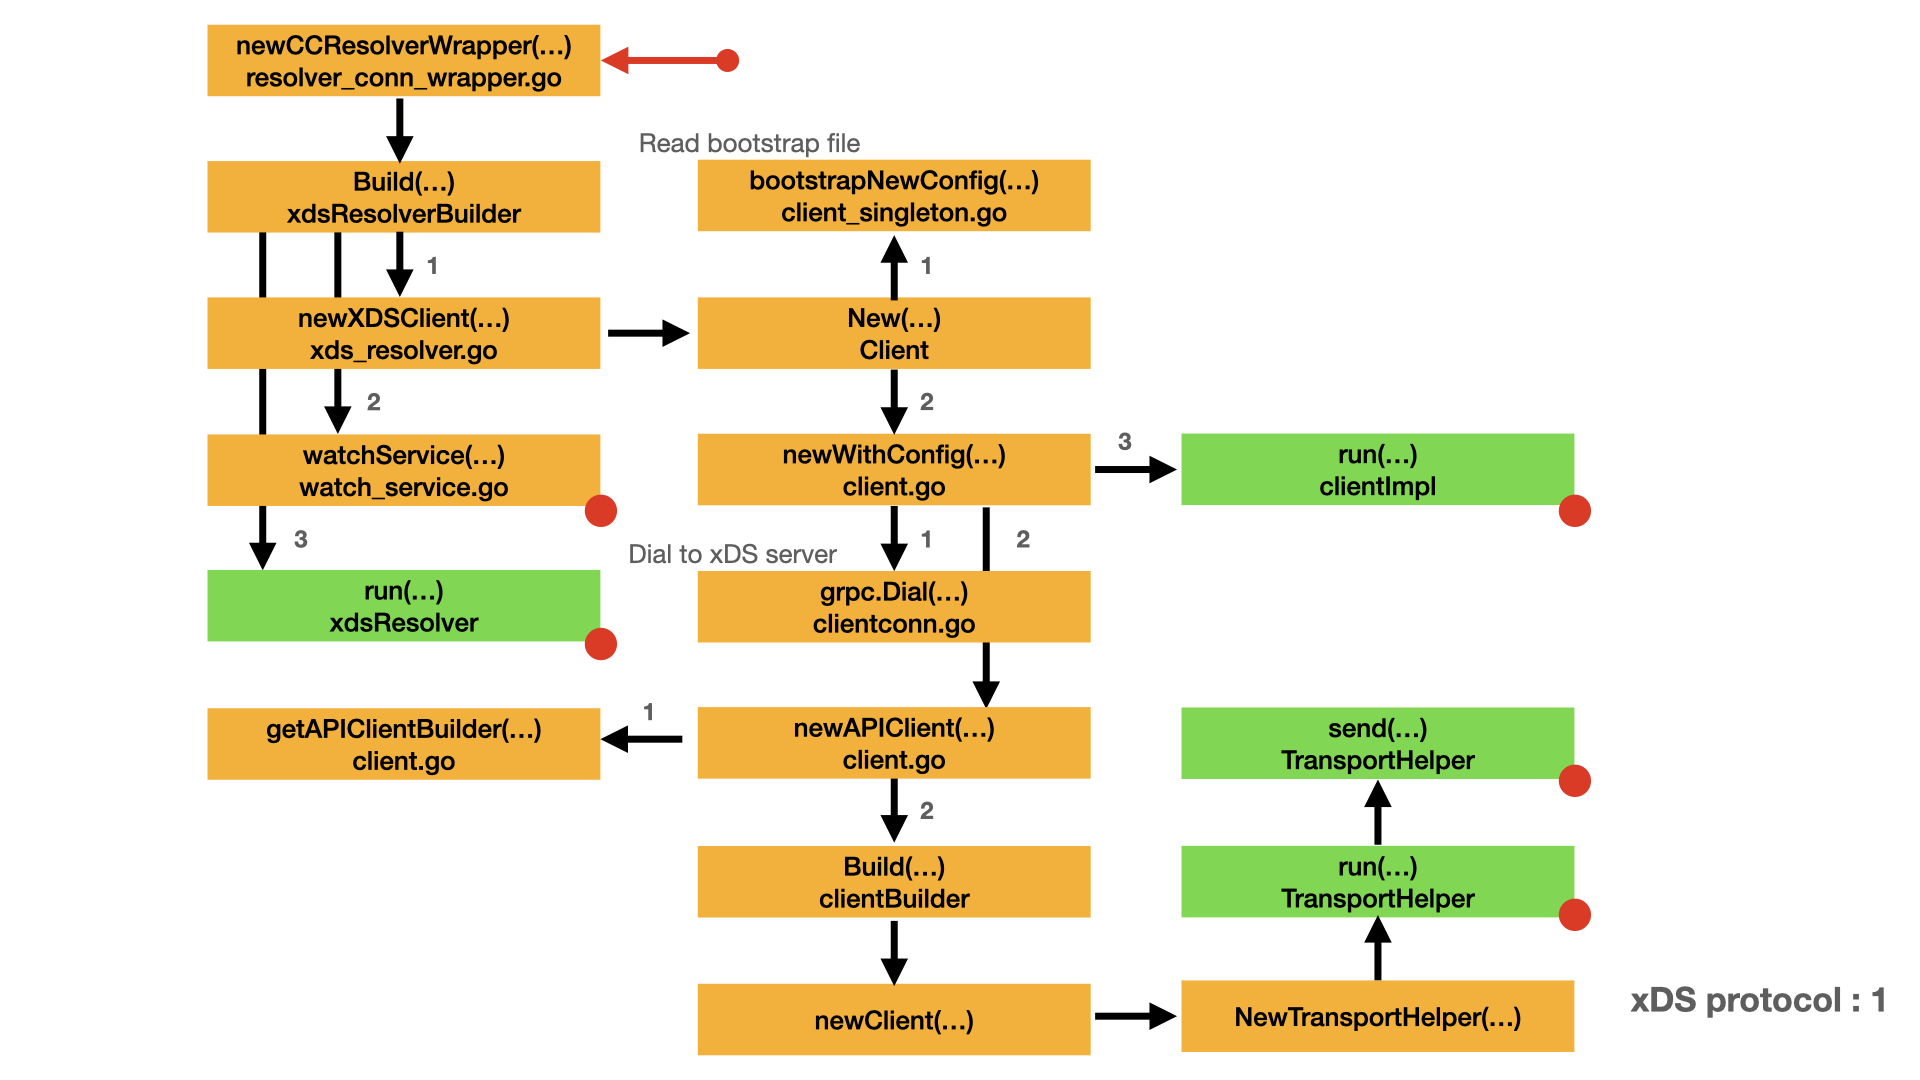
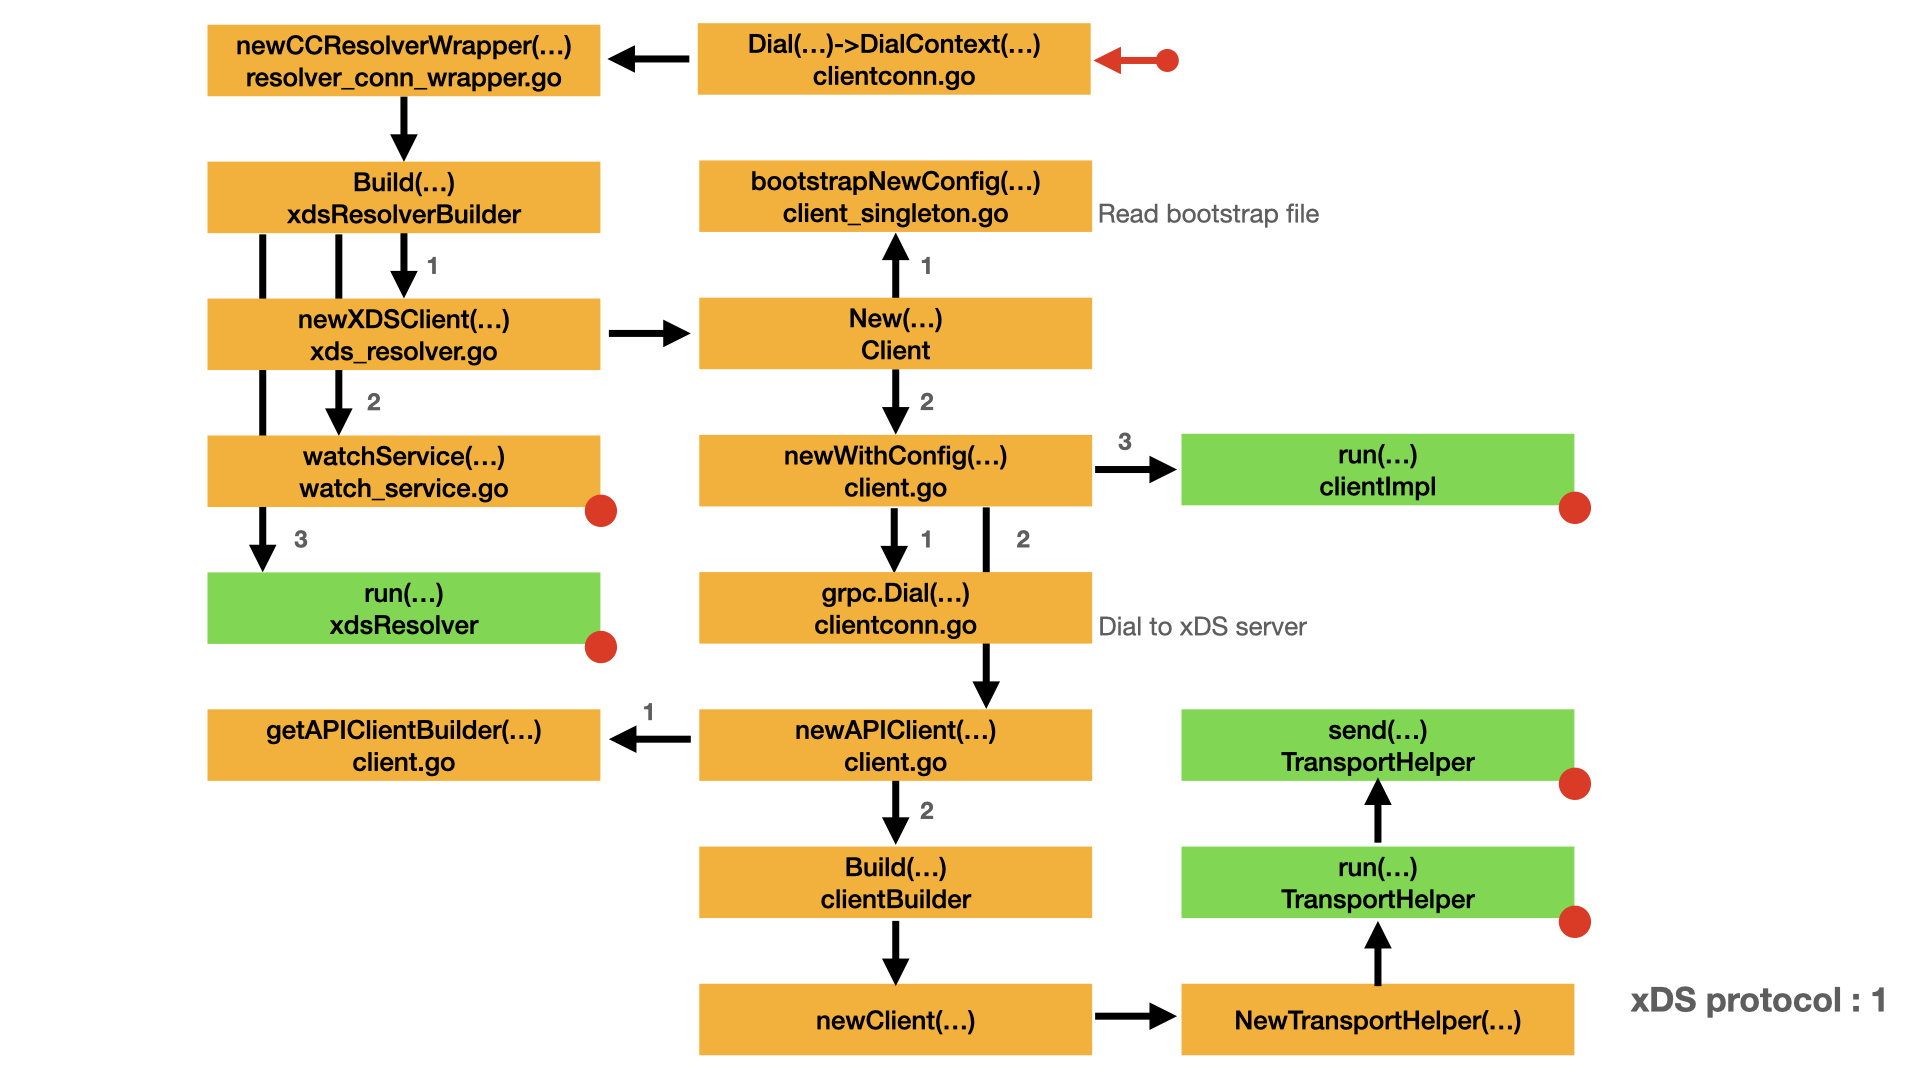
add  diagram

diff --git a/docs/wrappers.md b/docs/wrappers.md
@@ -1,15 +1,25 @@
 # xDS protocol - CDS/EDS
 
-- [Wrappers for X](#wrappers-for-x)
+- [xDS wrappers](#xds-wrappers)
   - [Resolver](#resolver)
   - [Cluster Manager](#cluster-manager)
   - [CDS balancer](#cds-balancer)
   - [EDS balancer](#eds-balancer)
   - [Priority locality balancer](#priority-locality-balancer)
 
-## Wrappers for X
+## xDS wrappers
 
 xDS use a log of interfaces and wrappers. E.g. `balancer.ClientConn` represents a gRPC `ClientConn`. In gRPC, different module uses different wrapper which implements the same interface. `ccBalancerWrapper` and `subBalancerWrapper` are typical wrappers. They implement the same interface with different behavior. If you want to understand the source code of xDS, it is better to find out the interface is implemented by which wrappers.
+
+The following diagram is the quick answer for the above questions. The following sections describe how this diagram is formed.
+
+![xDS wrappers](../images/images.020.png)
+
+- Yellow box represents important type and main field, "::" represents the field name.
+- Blue line represents the most important relationship between two types.
+- `1   *` represents one to many relationship.
+- Red line highlights path of `ClientConn`.
+- Black line and text represents the significant relationship between tow types.
 
 ### Resolver
 
@@ -252,8 +262,7 @@ In `builder.Build()`,
 - `bal.stateAggregator.cc` field is of type `ccBalancerWrapper`.
 - `bal.bg` field is of type `BalancerGroup`.
 - `bal.bg.cc` field is of type `ccBalancerWrapper`.
-
-In `balancergroup.New()`, `b.bg.cc` is of type `ccBalancerWrapper`. Note the balancer group `b.bg` is started by `b.bg.Start()`.
+- Note the balancer group `b.bg` is started by `b.bg.Start()`.
 
 ```go
 const balancerName = "xds_cluster_manager_experimental"

diff --git a/docs/conn2.md b/docs/conn2.md
@@ -97,6 +97,8 @@ The cluster manager has a balancer group, which contains CDS balancers. Each CDS
 
 In this stage, xDS will notify the connection state to gRPC core. Here is the map for this stage. In this map:
 
+![xDS protocol: 9](../images/images.017.png)
+
 - Yellow box represents the important type and method/function.
 - Green box represents a function run in a dedicated goroutine.
 - Arrow represents the call direction and order.
@@ -105,7 +107,7 @@ In this stage, xDS will notify the connection state to gRPC core. Here is the ma
 - Left red dot represents the box is a continue part from other map.
 - Right red dot represents there is a extension map for that box.
 
-![xDS protocol: 9](../images/images.017.png)
+We start from `bal.UpdateSubConnState()`. To avoid lost in the interface and wrapper, you can refer to [xDS wrappers](wrappers.md).
 
 - `bal.UpdateSubConnState()` calls `b.bg.UpdateSubConnState()`, Here `b.bg` is the EDS balancer group.
 - `b.bg.UpdateSubConnState()` is actually `BalancerGroup.UpdateSubConnState()`.

diff --git a/docs/cds.md b/docs/cds.md
@@ -30,7 +30,7 @@
   - [Update sub-connection state](conn2.md#update-sub-connection-state)
   - [Update state](conn2.md#update-state)
   - [Get notification](conn2.md#get-notification)
-- [Wrappers for X](wrappers.md#wrappers-for-x)
+- [xDS wrappers](wrappers.md)
 
 In the previous article [xDS protocol - LDS/RDS](lds.md), we discussed the xDS resolver and LDS/RDS. In this article we will discuss the xDS balancer and CDS/EDS. Why gRPC separates the ADS into two phases: LDS and CDS? In my guess: RDS returns a group of cluster name based on the domain matched `Route`. The matching `path` and other matching criteria can only be performed after we receive a real RPC request. It has to postpone the CDS/EDS to that time.
 
